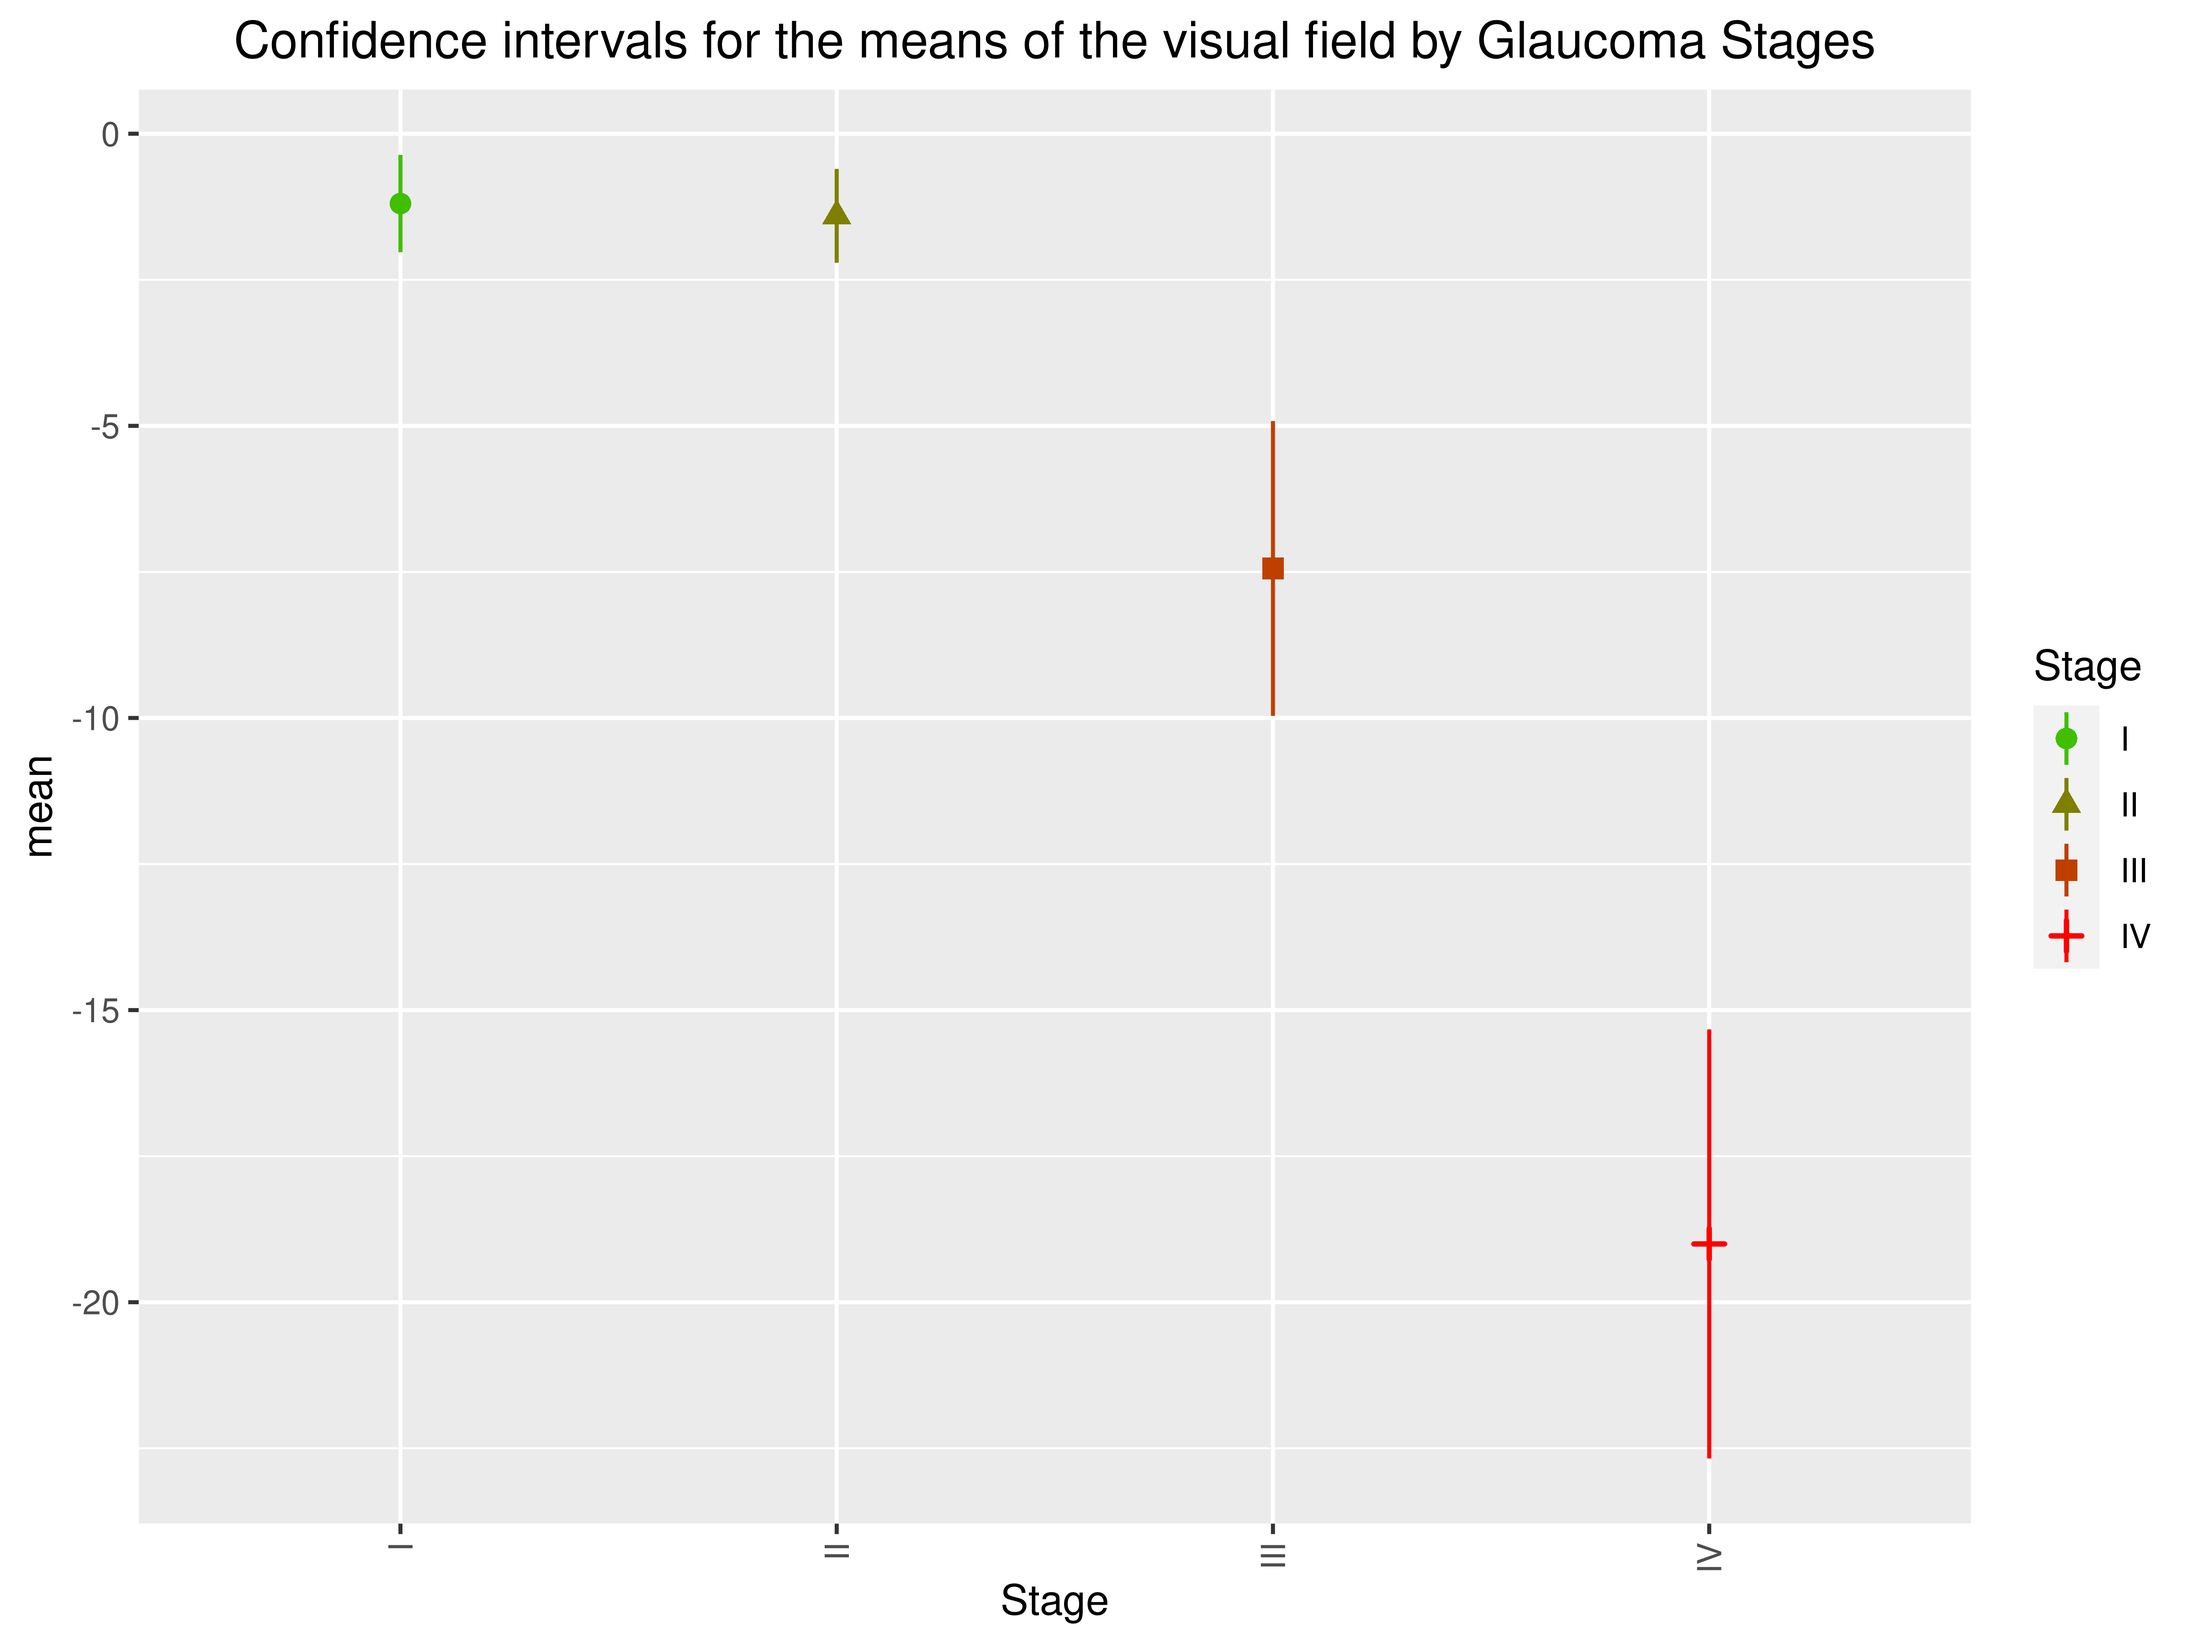
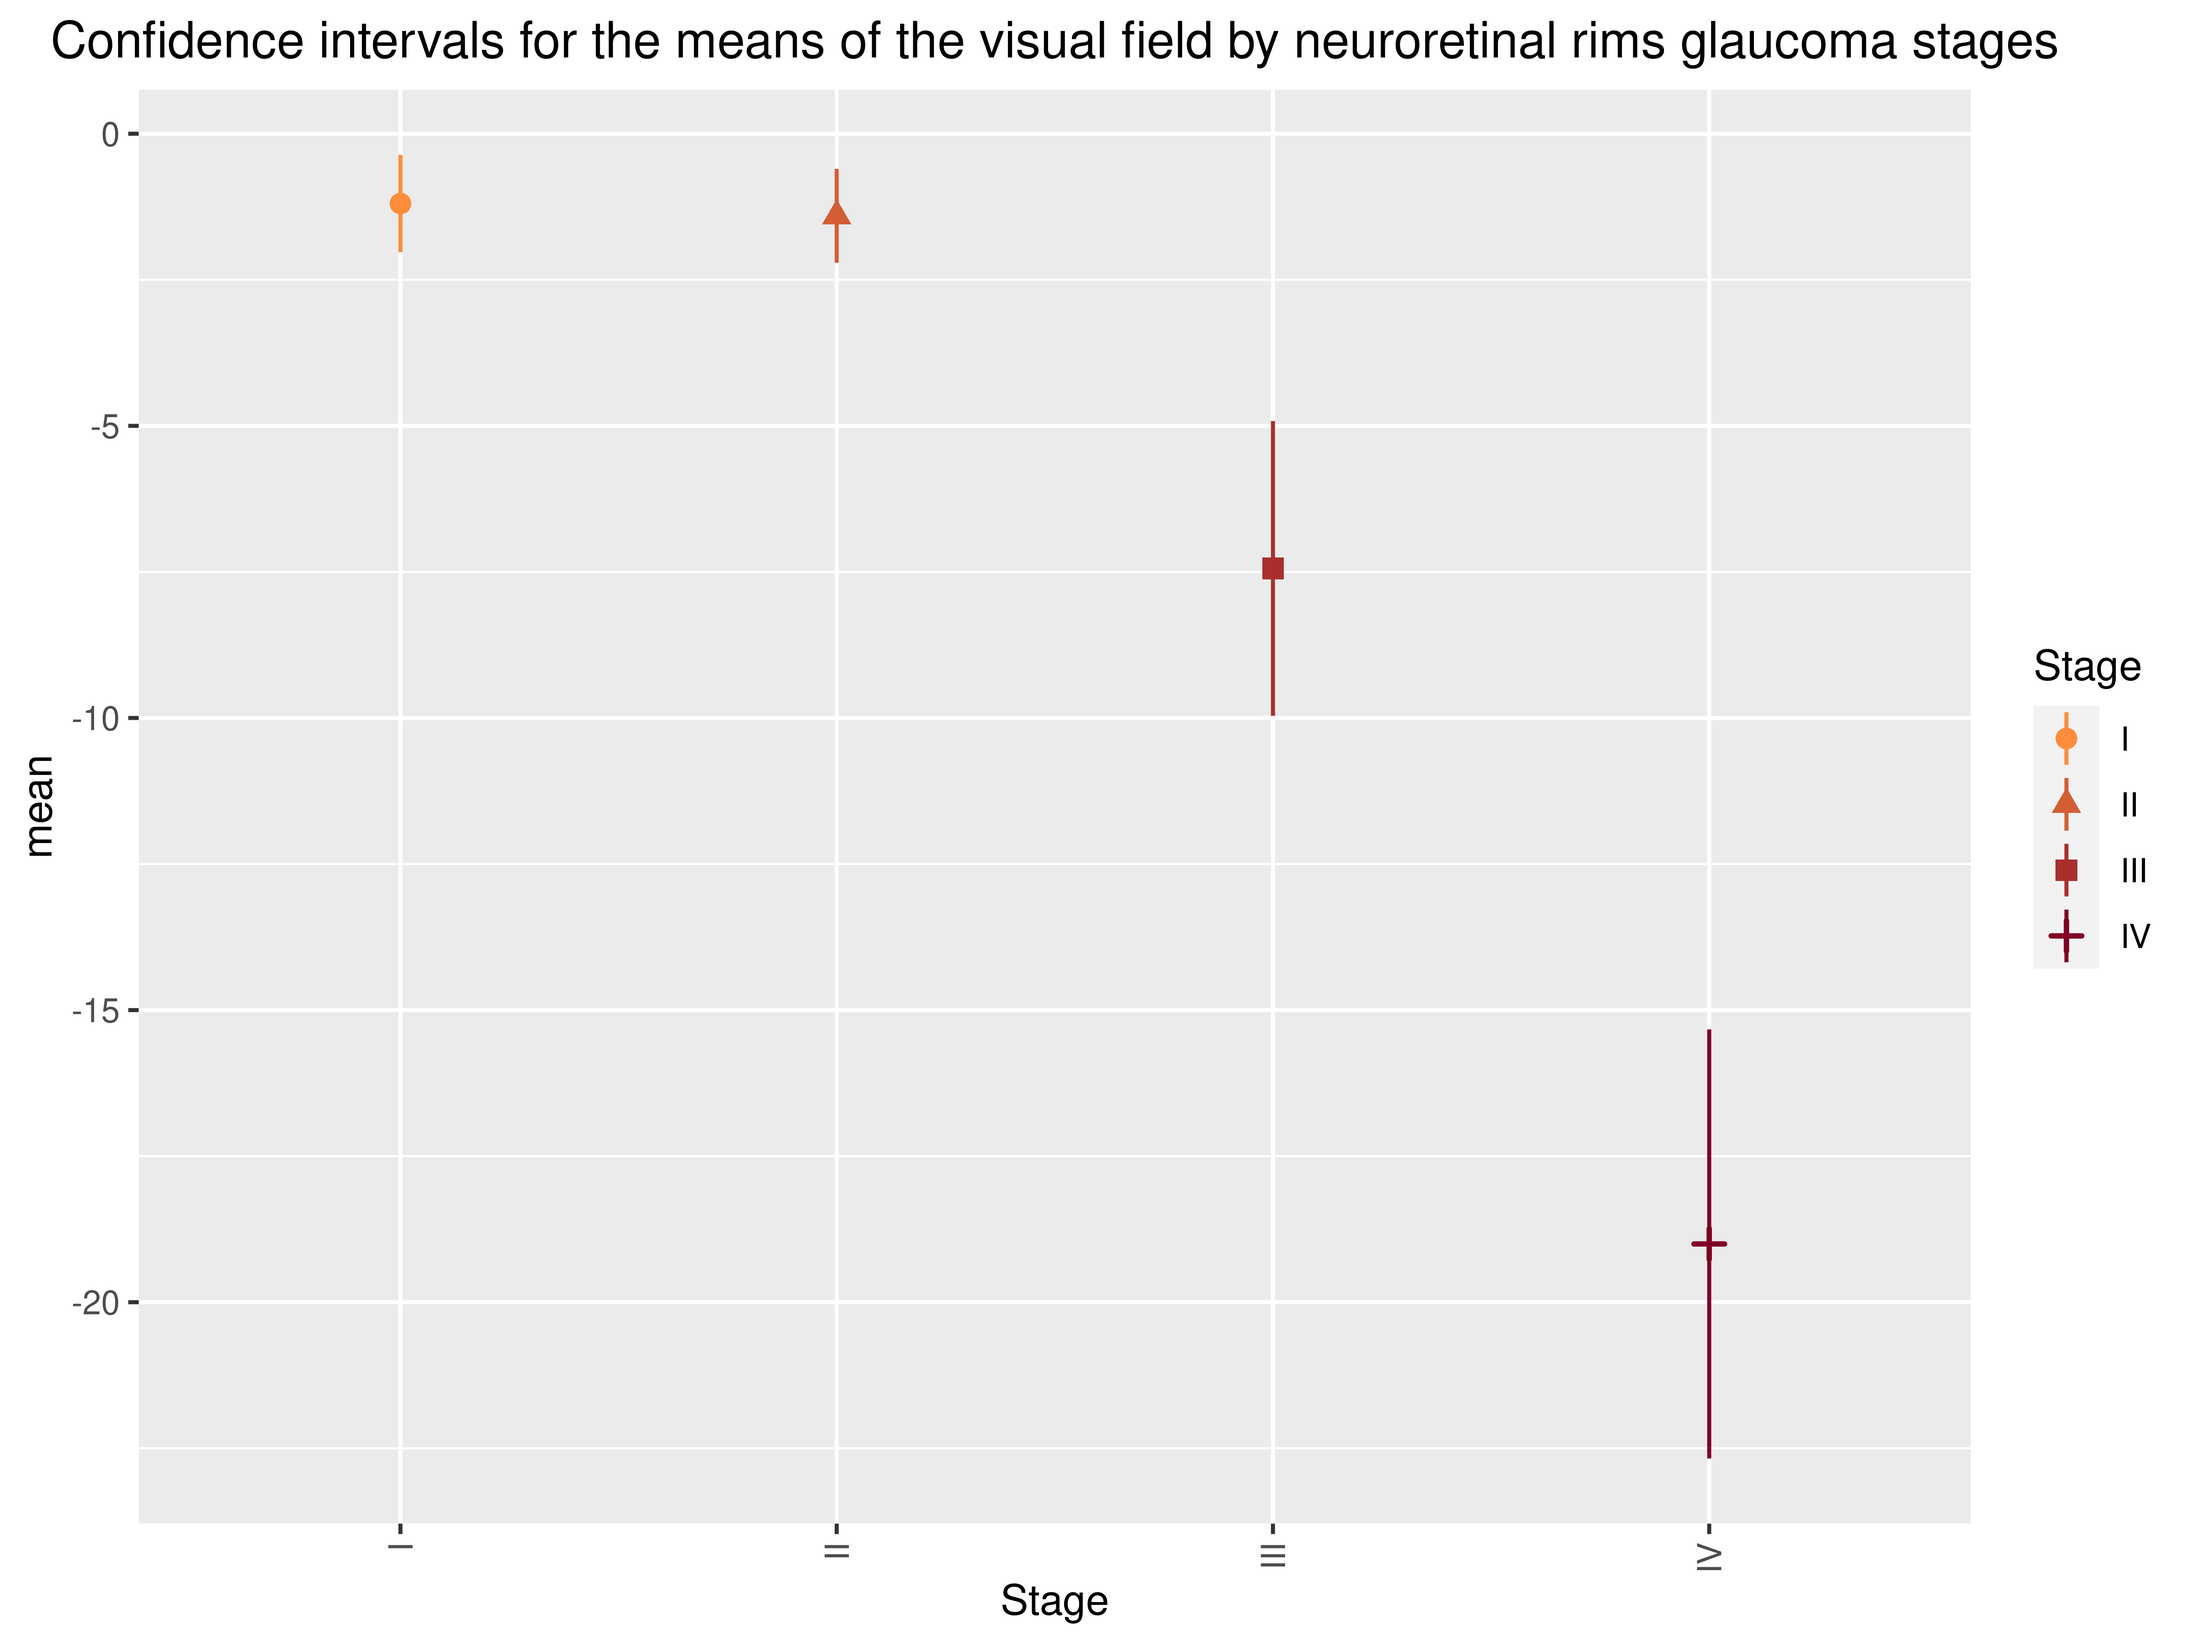
Added objetives tod the visual field analysis.

diff --git a/docs/visual-field.html b/docs/visual-field.html
@@ -10,9 +10,9 @@
 
 
 
-<meta name="date" content="2021-03-15" />
+<meta name="date" content="2021-03-31" />
 
-<title>Glaucoma staging study</title>
+<title>Concordance analysis between the glaucoma stages defined from neuroretinal rims and from visual field</title>
 
 <script src="site_libs/header-attrs-2.6/header-attrs.js"></script>
 <script src="site_libs/jquery-1.11.3/jquery.min.js"></script>
@@ -401,20 +401,24 @@ div.tocify {
 
 
 
-<h1 class="title toc-ignore">Glaucoma staging study</h1>
-<h4 class="date">2021-03-15</h4>
+<h1 class="title toc-ignore">Concordance analysis between the glaucoma stages defined from neuroretinal rims and from visual field</h1>
+<h4 class="date">2021-03-31</h4>
 
 </div>
 
 
+<div id="objective" class="section level1">
+<h1>Objective</h1>
+<p>The purpose of this study is to determine if there exists concordance between the staging system for clasifiying glaucoma from the neuroretinal rims (see <a href="http://aprendeconalf.es/glaucoma-staging/clusters.html" class="uri">http://aprendeconalf.es/glaucoma-staging/clusters.html</a>) and the classic classification with the visual field.</p>
+</div>
 <div id="analysis-of-visual-field" class="section level1">
 <h1>Analysis of visual field</h1>
 <div id="boxplot-of-visual-field-by-glaucoma-stages" class="section level2">
 <h2>Boxplot of visual field by Glaucoma stages</h2>
 <p><img src="visual-field_files/figure-html/distribution-1.png" width="2400" /></p>
 </div>
-<div id="conficence-intervals-for-the-mean-by-glaucoma-stages" class="section level2">
-<h2>Conficence intervals for the mean by Glaucoma stages</h2>
+<div id="conficence-intervals-for-the-mean-of-visual-field-by-neuroretinal-rims-glaucoma-stages" class="section level2">
+<h2>Conficence intervals for the mean of visual field by neuroretinal rims glaucoma stages</h2>
 <table>
 <thead>
 <tr class="header">
@@ -470,7 +474,8 @@ div.tocify {
 </div>
 <div id="visual-field-stages" class="section level2">
 <h2>Visual field stages</h2>
-<p>We define 4 stages using the visual field.</p>
+<p>Definimos a partir del campo visual 4 estadíos al igual que se hizo con los anillos retinianos.</p>
+<p>We define from the visual field 4 stages the same as we did for the neuroretinal rims.</p>
 <table>
 <thead>
 <tr class="header">
@@ -534,7 +539,7 @@ div.tocify {
 
 Chisq(131) = 218 
   p-value = 2.89e-06 </code></pre>
-<p>As <span class="math inline">\(W=0.831\)</span> there is a significant strong concordance between both rankings.</p>
+<p>We conclude that there is a strong concordance (<span class="math inline">\(W=0.831\)</span>) and very significant (<span class="math inline">\(p&lt;0.01\)</span>) between both rankings of glaucoma classification.</p>
 </div>
 </div>
 

diff --git a/docs/descriptive-statistics.html b/docs/descriptive-statistics.html
@@ -10,7 +10,7 @@
 
 
 
-<meta name="date" content="2021-03-15" />
+<meta name="date" content="2021-03-31" />
 
 <title>Estudio sobre el Glaucoma</title>
 
@@ -402,7 +402,7 @@ div.tocify {
 
 
 <h1 class="title toc-ignore">Estudio sobre el Glaucoma</h1>
-<h4 class="date">2021-03-15</h4>
+<h4 class="date">2021-03-31</h4>
 
 </div>
 

diff --git a/docs/clusters.html b/docs/clusters.html
@@ -10,7 +10,7 @@
 
 
 
-<meta name="date" content="2021-03-15" />
+<meta name="date" content="2021-03-31" />
 
 <title>Glaucoma staging study</title>
 
@@ -402,7 +402,7 @@ div.tocify {
 
 
 <h1 class="title toc-ignore">Glaucoma staging study</h1>
-<h4 class="date">2021-03-15</h4>
+<h4 class="date">2021-03-31</h4>
 
 </div>
 

diff --git a/docs/correlation.html b/docs/correlation.html
@@ -10,7 +10,7 @@
 
 
 
-<meta name="date" content="2021-03-15" />
+<meta name="date" content="2021-03-31" />
 
 <title>Glaucoma staging study</title>
 
@@ -402,7 +402,7 @@ div.tocify {
 
 
 <h1 class="title toc-ignore">Glaucoma staging study</h1>
-<h4 class="date">2021-03-15</h4>
+<h4 class="date">2021-03-31</h4>
 
 </div>
 

diff --git a/docs/index.html b/docs/index.html
@@ -10,7 +10,7 @@
 
 
 
-<meta name="date" content="2021-03-15" />
+<meta name="date" content="2021-03-31" />
 
 <title>Glaucoma staging study</title>
 
@@ -410,7 +410,7 @@ div.tocify {
 
 
 <h1 class="title toc-ignore">Glaucoma staging study</h1>
-<h4 class="date">2021-03-15</h4>
+<h4 class="date">2021-03-31</h4>
 
 </div>
 

diff --git a/docs/linear-discriminant-analysis.html b/docs/linear-discriminant-analysis.html
@@ -10,7 +10,7 @@
 
 
 
-<meta name="date" content="2021-03-15" />
+<meta name="date" content="2021-03-31" />
 
 <title>Glaucoma staging study</title>
 
@@ -402,7 +402,7 @@ div.tocify {
 
 
 <h1 class="title toc-ignore">Glaucoma staging study</h1>
-<h4 class="date">2021-03-15</h4>
+<h4 class="date">2021-03-31</h4>
 
 </div>
 

diff --git a/docs/principal-components.html b/docs/principal-components.html
@@ -10,7 +10,7 @@
 
 
 
-<meta name="date" content="2021-03-15" />
+<meta name="date" content="2021-03-31" />
 
 <title>Glaucoma staging study</title>
 
@@ -402,7 +402,7 @@ div.tocify {
 
 
 <h1 class="title toc-ignore">Glaucoma staging study</h1>
-<h4 class="date">2021-03-15</h4>
+<h4 class="date">2021-03-31</h4>
 
 </div>
 
